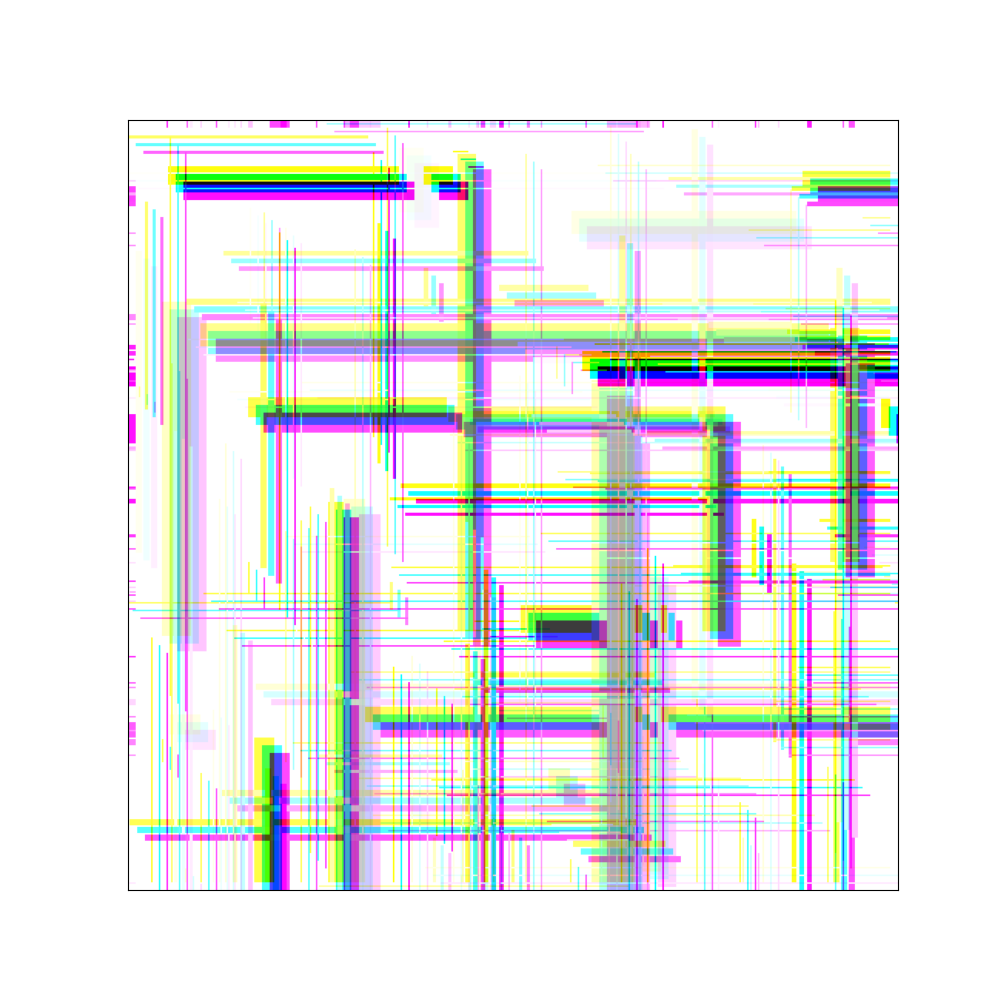
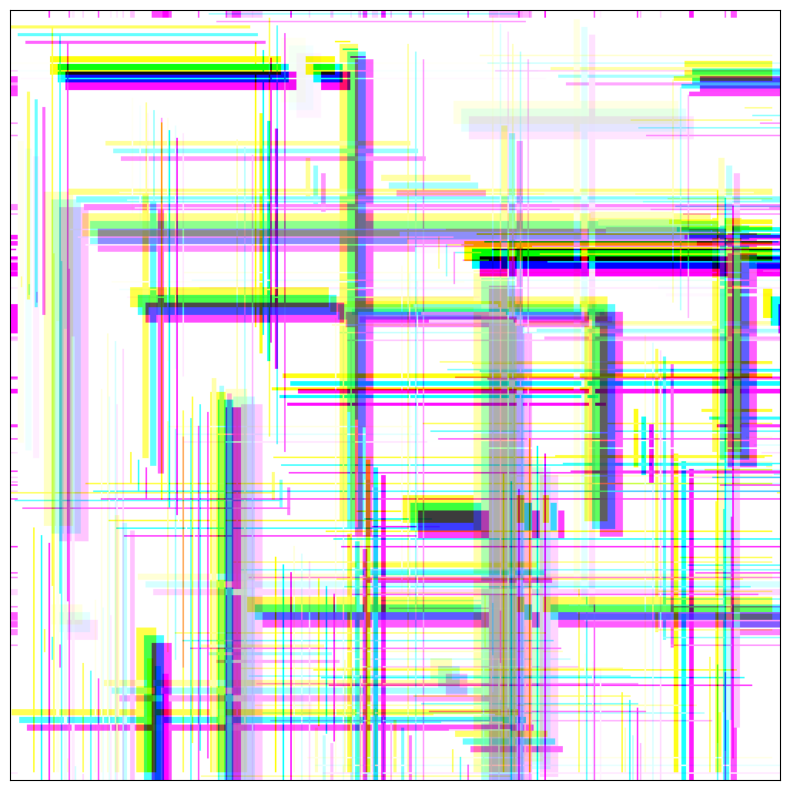
Retrospectively applying "bbox_inches='tight'" to get less margin on the output images

diff --git a/src/day1.py b/src/day1.py
@@ -49,7 +49,7 @@ def draw_images(subplot_shape: Tuple[int, int], image_func, rng_obj, save_name: 
         ax.imshow(image_func(rng_obj), cmap="gray")
         ax.set_xticks([])
         ax.set_yticks([])
-    plt.savefig(save_name)
+    plt.savefig(save_name, bbox_inches="tight")
     plt.show()
 
 

diff --git a/src/day2.py b/src/day2.py
@@ -54,5 +54,5 @@ fig, ax = plt.subplots(1, 1, figsize=(10, 10))
 ax.imshow(grid, cmap="gray")
 ax.set_xticks([])
 ax.set_yticks([])
-plt.savefig("out/day2.png")
+plt.savefig("out/day2.png", bbox_inches="tight")
 plt.show()
